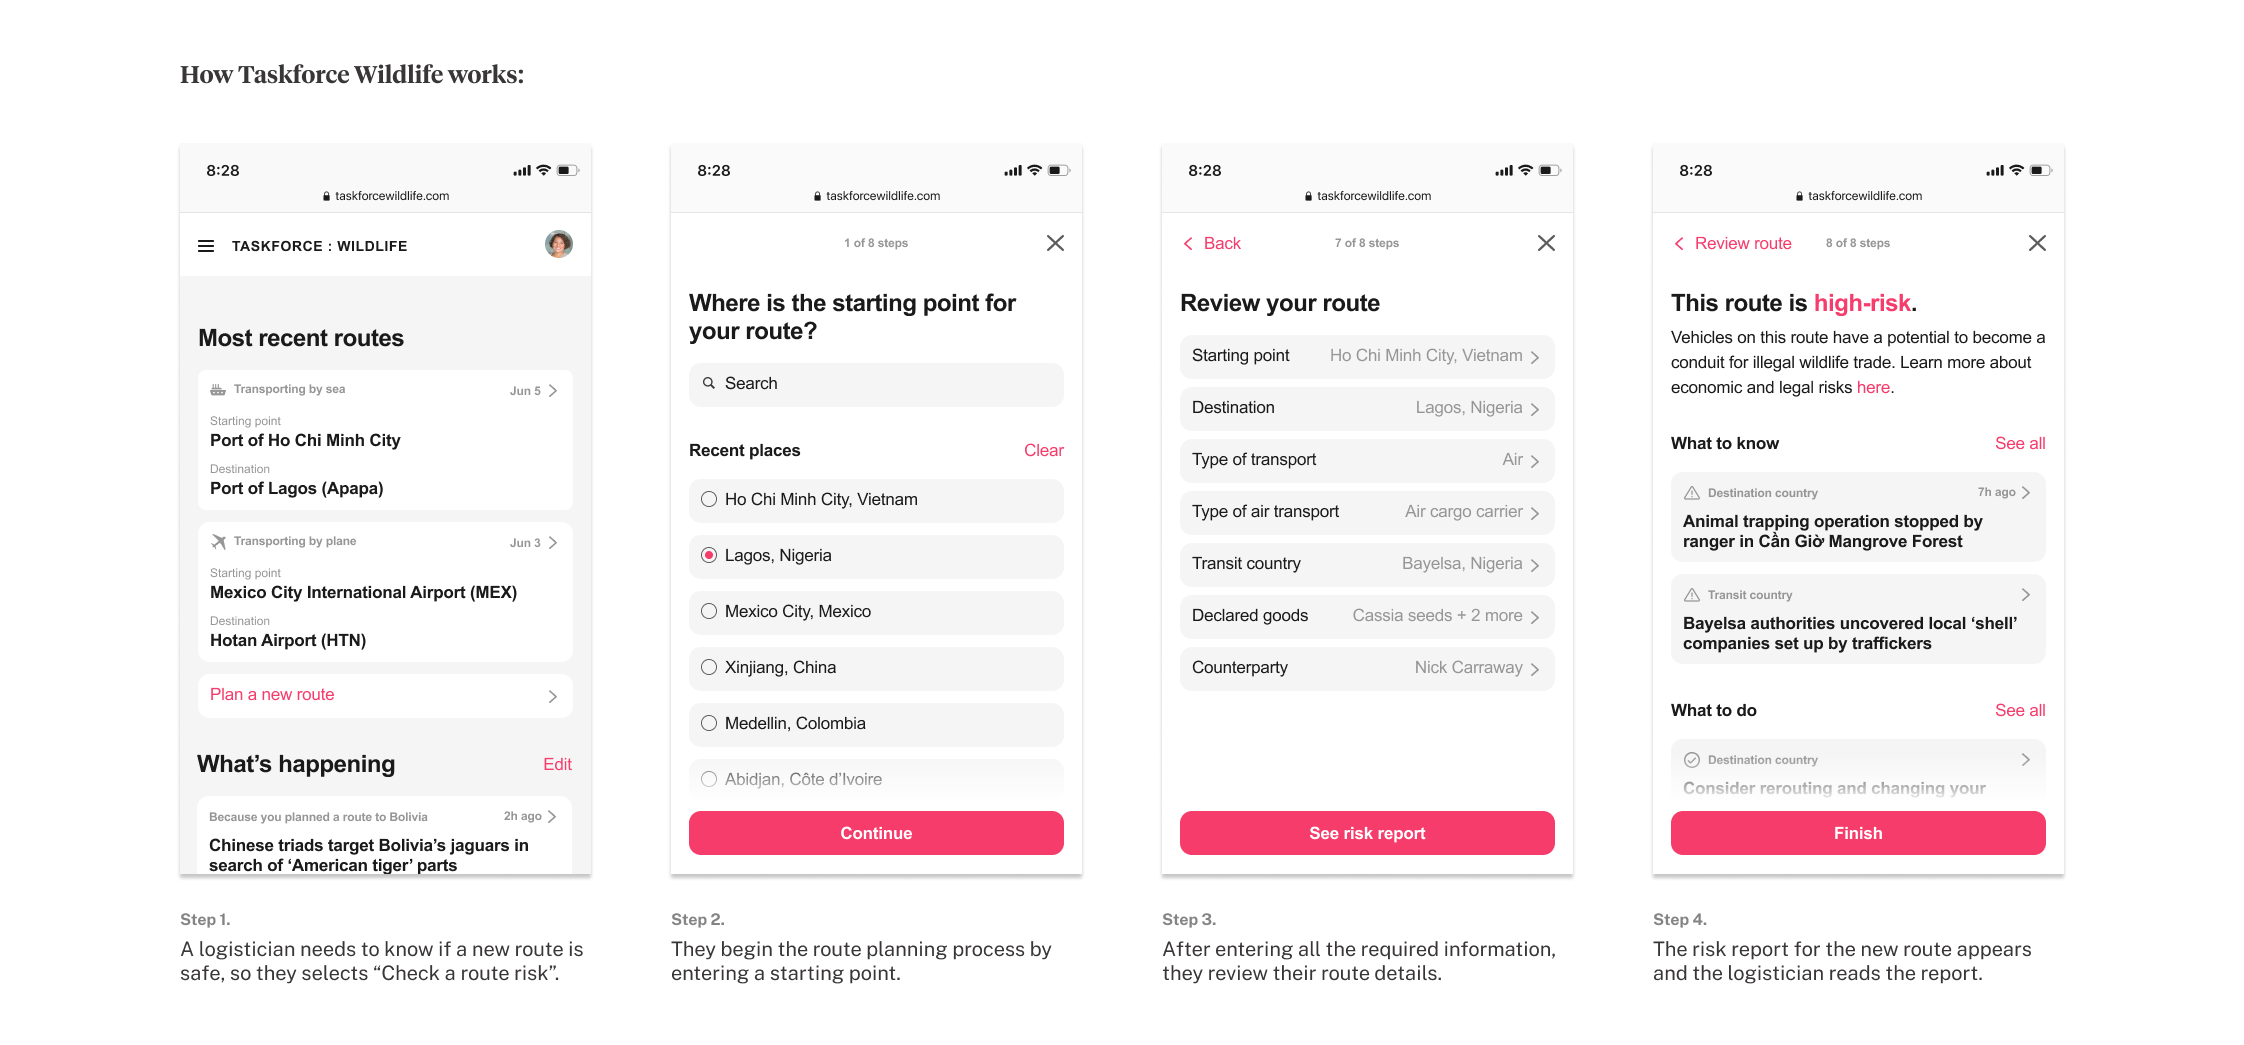
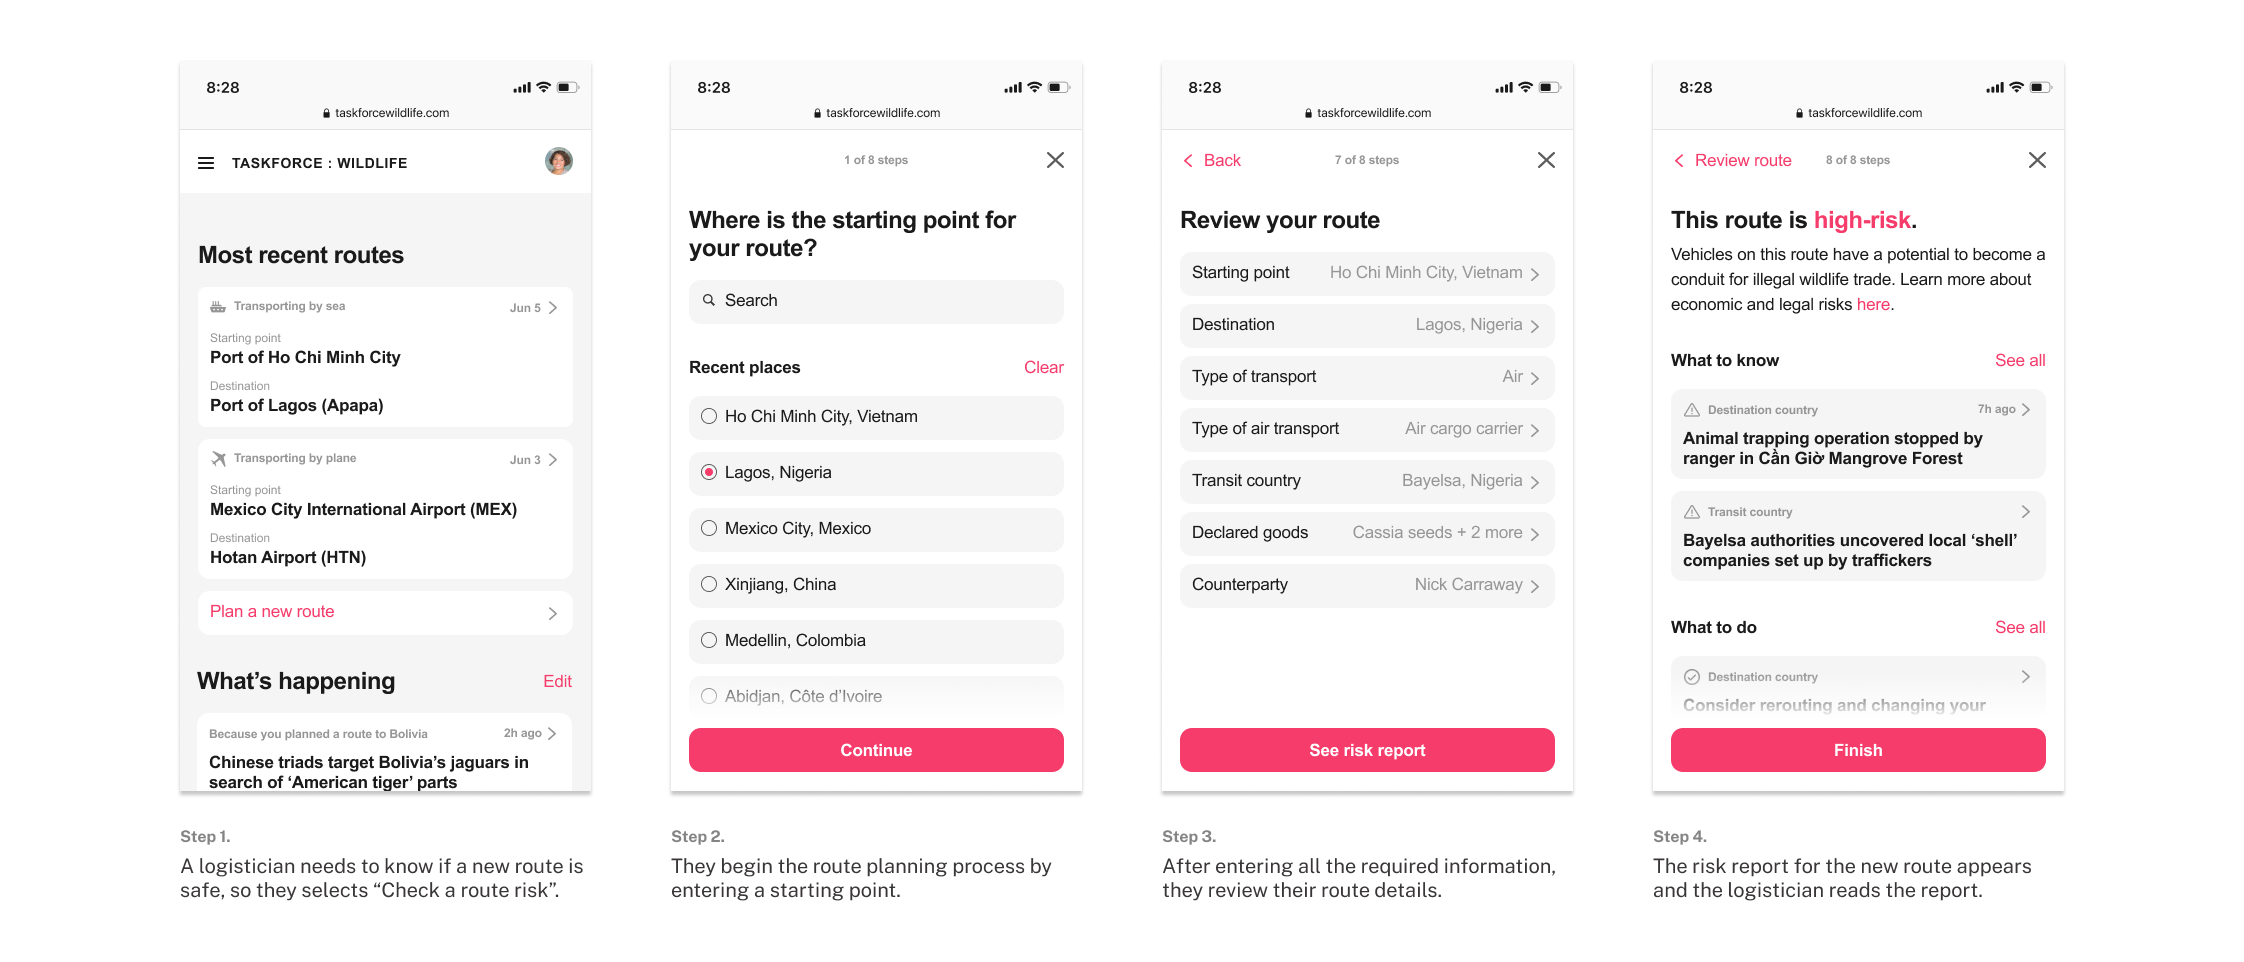
chore: broke up how it works image

diff --git a/src/pages/united-for-wildlife/index.md b/src/pages/united-for-wildlife/index.md
@@ -34,12 +34,13 @@ Due to the complexity of the problem, we looked for ways to pare it down to bite
 
 To understand the workflow of wildlife rangers appointed by UfW, we learned that rangers would make reports when they detect any suspicious activity. But these reports would often get buried in a dense backlog, rarely reaching transport businesses in time if at all. 
 
-![The current journey map of United for Wildlife and their wildlife rangers.](./taskforce-wildlife-UFW-journey.png)
+![The current journey map of United for Wildlife and their wildlife rangers](./taskforce-wildlife-UFW-journey.png)
 
-I extracted key insights from logisticians and rangers that helped the team reframe the problem space.
 
+### Key insights from logisticians
 ![Some key insights I gleaned from our interview with the logisitcs from Bangkok Airways](./taskforce-wildlife-logistician-pain-points.png)
 
+### Key insights from rangers
 ![Some key insights about rangers I gleaned from our interview with the UfW](./taskforce-wildlife-ranger-pain-points.png)
 
 ## Problem
@@ -52,14 +53,19 @@ I searched for precedents in the navigation domain for ideas that would rectify 
  
 I wondered if we could bring the analysis of real-time reports to predict trafficking before it happens. In this early exploration, I ideated a tool that used existing risk reports to predict the safest and fastest routes. However, this idea required our tech team to amalgamate the technology behind each logistic solution used by logisticians. This wasn’t feasible for the scope of the project so I tabled the idea. 
 
-![I ideated a tool that used existing risk reports to predict the safest and fastest routes.](taskforce-wildlife-explorations.png)
+![I ideated a tool that used existing risk reports to predict the safest and fastest routes](taskforce-wildlife-explorations.png)
 
 
 ## Solution
 
 I looked for ideas that would align with our tech constraints, specifically towards analytic and forecasting tools on ways data is made to be actionable for users. I wondered if there was a way to aggregate reports that are specific to a logistician’s route. Once again referencing my notes from our Bangkok Airways interview, my tech director, data engineer and I established a set of basic parameters needed from a route plan to assess the projected risk. I created an experience that allowed logisticians to input a route to see if it is safe. 
 
-![The user journey map of Taskforce Wildlife](taskforce-wildlife-how-it-works.png)
+### How Taskforce Wildlife works:
+
+![ ](taskforce-wildlife-how-it-works-1.png)
+
+![I created an experience that allowed logisticians to input a route to see if it is safe](taskforce-wildlife-how-it-works-2.png)
+
 
 ## Deisgn guidelines
 
